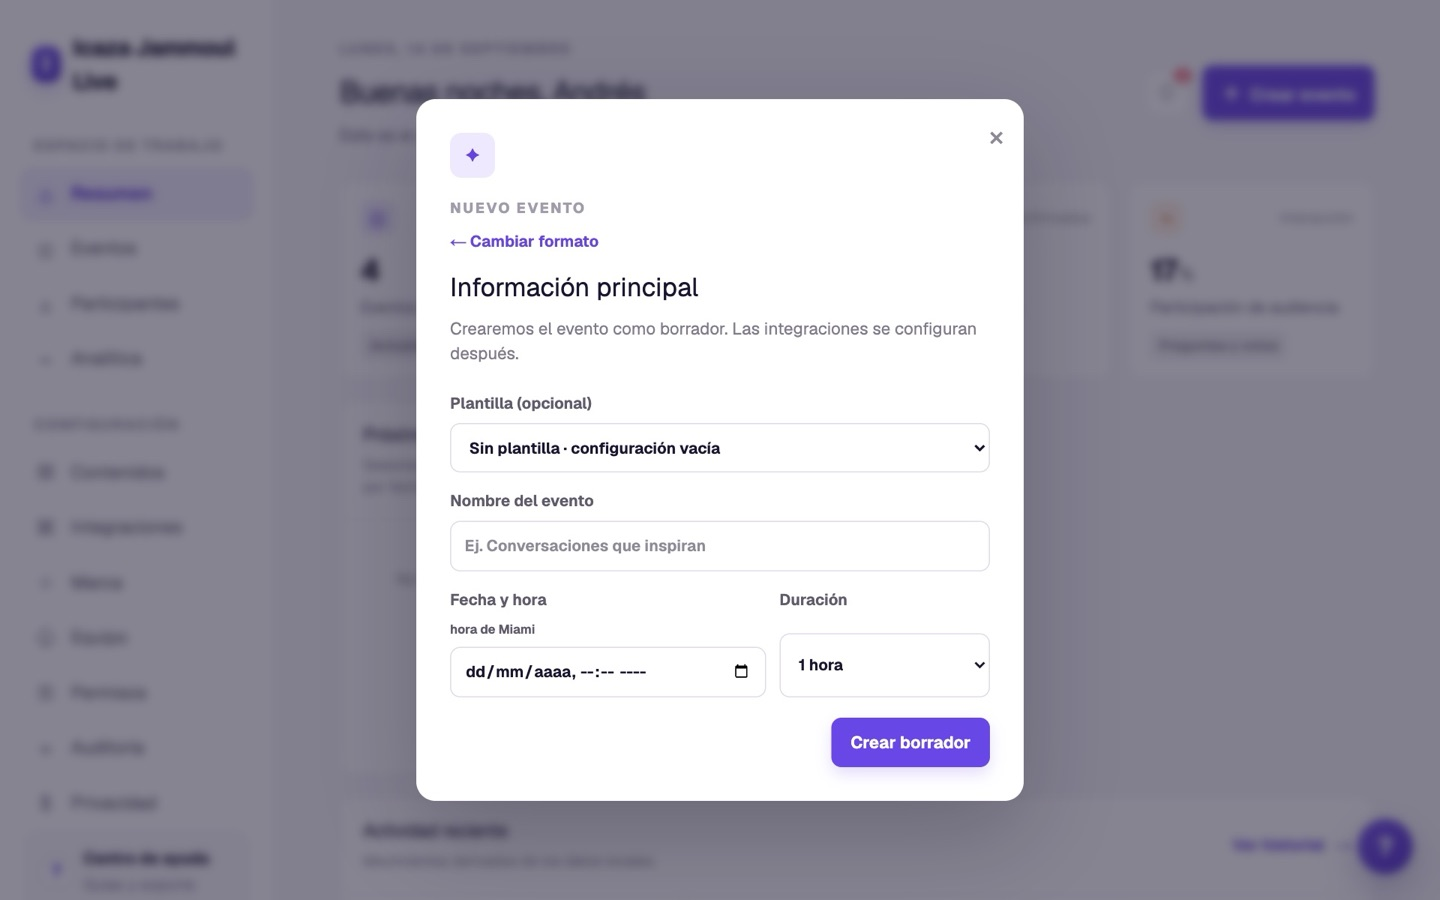
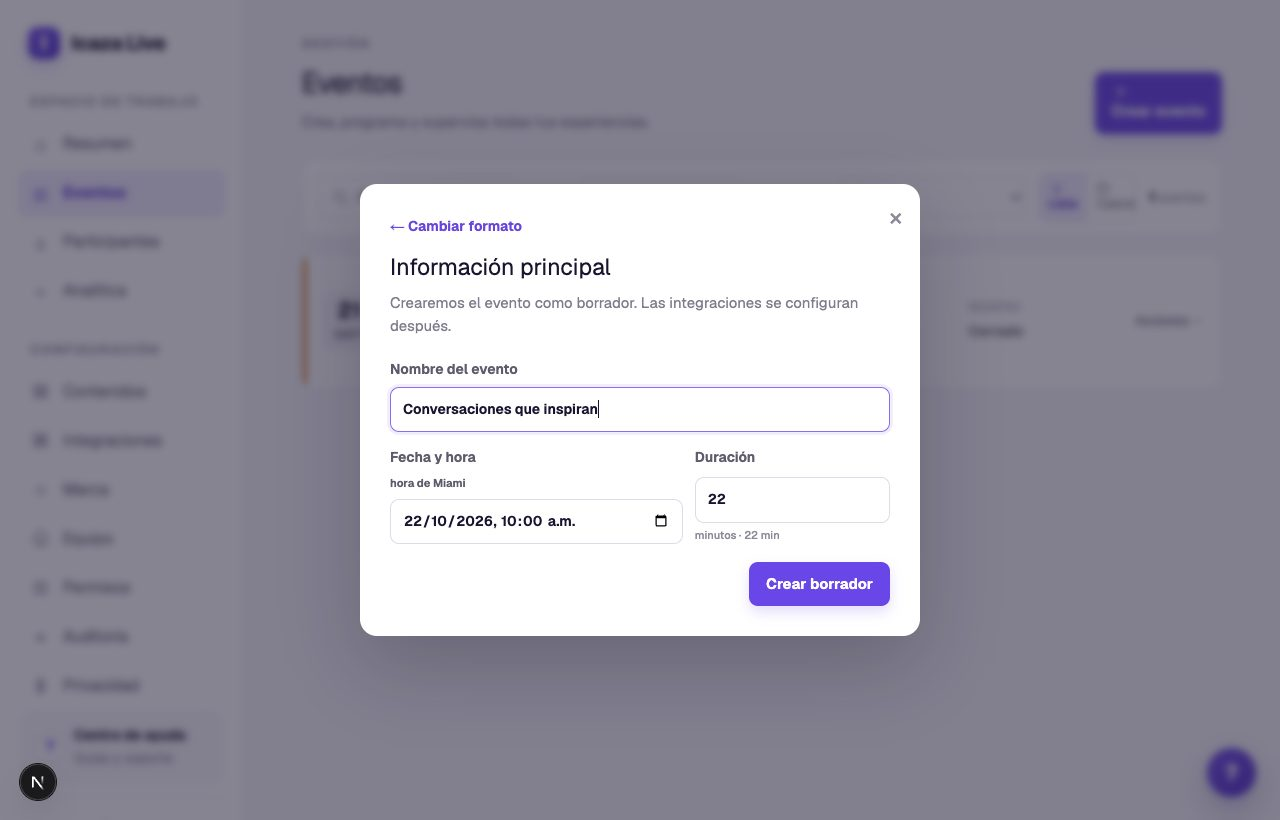
Centro de ayuda: guía de cuenta, idioma y equipo; duración libre, Recordatorio oportunidad, filtros de analítica y alcance por rol, con capturas nuevas

diff --git a/lib/help-guides.ts b/lib/help-guides.ts
@@ -53,9 +53,9 @@ const manageEventsSections: HelpGuideSection[] = [
       ),
       step(
         t(
-          "Completa **Información principal**: elige una **Plantilla** si guardaste una de un evento anterior (copia agenda, comunicaciones y encuestas), escribe el **Nombre del evento**, la **Fecha y hora** (siempre en hora de Miami, America/New_York) y la **Duración**. Pulsa **Crear borrador**.",
-          "Fill in **Main information**: pick a **Template** if you saved one from a previous event (it copies agenda, communications and polls), type the **Event name**, the **Date and time** (always Miami time, America/New_York) and the **Duration**. Click **Create draft**.",
-          "Renseignez **Informations principales** : choisissez un **Modèle** si vous en avez enregistré un depuis un événement précédent (il copie l’agenda, les communications et les sondages), saisissez le **Nom de l’événement**, la **Date et l’heure** (toujours à l’heure de Miami, America/New_York) et la **Durée**. Cliquez sur **Créer le brouillon**.",
+          "Completa **Información principal**: elige una **Plantilla** si guardaste una de un evento anterior (copia agenda, comunicaciones y encuestas), escribe el **Nombre del evento**, la **Fecha y hora** (siempre en hora de Miami, America/New_York) y la **Duración** en minutos: cualquier valor entre 5 y 720 (por ejemplo 22), con sugerencias rápidas al desplegar el campo. Pulsa **Crear borrador**. La duración también se cambia después desde **Cambiar fecha y hora** en la ficha del evento.",
+          "Fill in **Main information**: pick a **Template** if you saved one from a previous event (it copies agenda, communications and polls), type the **Event name**, the **Date and time** (always Miami time, America/New_York) and the **Duration** in minutes: any value between 5 and 720 (for example 22), with quick suggestions when you open the field. Click **Create draft**. The duration can also be changed later from **Change date and time** on the event page.",
+          "Renseignez **Informations principales** : choisissez un **Modèle** si vous en avez enregistré un depuis un événement précédent (il copie l’agenda, les communications et les sondages), saisissez le **Nom de l’événement**, la **Date et l’heure** (toujours à l’heure de Miami, America/New_York) et la **Durée** en minutes : toute valeur entre 5 et 720 (par exemple 22), avec des suggestions rapides en ouvrant le champ. Cliquez sur **Créer le brouillon**. La durée se modifie aussi ensuite via **Changer la date et l’heure** sur la fiche de l’événement.",
         ),
         {
           image: img("crear-informacion"),
@@ -344,6 +344,7 @@ const manageEventsSections: HelpGuideSection[] = [
           "**Opportunity reminder** is a sixth automation with the same structure as the follow-up: it goes out some time after the event ends, but **only to people who registered and did not enter**. If the person did attend, the send cancels itself. Enable it with its switch; existing registrants are scheduled at that moment. The **Schedule a meeting** button appears only if you saved your Calendly link.",
           "**Rappel opportunité** est une sixième automatisation, de même structure que le suivi : elle part un certain temps après la fin de l’événement, mais **uniquement aux inscrits qui ne sont pas entrés**. Si la personne a assisté, l’envoi s’annule tout seul. Activez-la avec son interrupteur ; les inscrits existants sont programmés à ce moment. Le bouton **Planifier une réunion** n’apparaît que si vous avez enregistré votre lien Calendly.",
         ),
+        { image: img("comunicaciones-oportunidad"), caption: t("Recordatorio oportunidad en la secuencia del participante.", "Opportunity reminder in the participant sequence.", "Rappel opportunité dans la séquence du participant.") },
       ),
       step(
         t(
@@ -774,11 +775,19 @@ const analyticsSections: HelpGuideSection[] = [
     id: "global",
     title: t("Analítica global", "Global analytics", "Analyses globales"),
     intro: t(
-      "La página Analítica del menú lateral consolida todos los eventos. Los datos se actualizan cada vez que la abres.",
-      "The Analytics page in the side menu consolidates all events. Data refreshes every time you open it.",
-      "La page Analyses du menu latéral consolide tous les événements. Les données se rafraîchissent à chaque ouverture.",
+      "La página Analítica del menú lateral consolida los eventos que puedes ver: si eres organizador, solo los tuyos; si eres administrador, todos, con filtros. Los datos se actualizan cada vez que la abres.",
+      "The Analytics page in the side menu consolidates the events you can see: your own if you are an organizer; all of them, with filters, if you are an administrator. Data refreshes every time you open it.",
+      "La page Analyses du menu latéral consolide les événements que vous pouvez voir : les vôtres si vous êtes organisateur ; tous, avec des filtres, si vous êtes administrateur. Les données se rafraîchissent à chaque ouverture.",
     ),
     steps: [
+      step(
+        t(
+          "Si eres **administrador**, arriba verás la barra de filtros: **Organizador** (los eventos donde esa persona es propietaria o coorganizadora), **Evento** y el rango **Desde / Hasta** por fecha de inicio. Los filtros se combinan, se aplican a todos los indicadores, gráficos y a la tabla de rendimiento, y quedan en la dirección de la página para que puedas compartir la vista. **Limpiar filtros** vuelve al total.",
+          "If you are an **administrator**, you will see the filter bar at the top: **Organizer** (events where that person is owner or co-organizer), **Event** and the **From / To** range by start date. Filters combine, apply to every indicator, chart and the performance table, and are kept in the page address so you can share the view. **Clear filters** goes back to the total.",
+          "Si vous êtes **administrateur**, la barre de filtres apparaît en haut : **Organisateur** (événements dont cette personne est propriétaire ou co-organisatrice), **Événement** et la plage **Du / Au** par date de début. Les filtres se combinent, s’appliquent à tous les indicateurs, graphiques et au tableau de performance, et restent dans l’adresse de la page pour partager la vue. **Effacer les filtres** revient au total.",
+        ),
+        { image: img("analitica-filtros"), caption: t("Filtros del administrador en Analítica.", "Administrator filters in Analytics.", "Filtres de l’administrateur dans Analyses.") },
+      ),
       step(
         t(
           "Los cuatro indicadores superiores: **Registros** (inscripciones totales y en cuántos eventos), **Visitas a sala** (accesos individuales con enlace personal), **Participación** (porcentaje de asistentes que hicieron algo: pregunta, voto, mensaje o reacción) y **Mensajes preparados** (correos en cola o programados).",
@@ -882,6 +891,120 @@ const analyticsSections: HelpGuideSection[] = [
   },
 ];
 
+// ---------------------------------------------------------------------------
+// Guía 4: Tu cuenta, el idioma y el equipo
+// ---------------------------------------------------------------------------
+
+const accountSections: HelpGuideSection[] = [
+  {
+    id: "perfil",
+    title: t("Tu perfil", "Your profile", "Votre profil"),
+    intro: t(
+      "Pulsa tu nombre, abajo a la izquierda del menú lateral, para abrir **Mi perfil**. Desde ahí gestionas tus datos, tu foto y tus preferencias sin pasar por un administrador.",
+      "Click your name at the bottom left of the side menu to open **My profile**. From there you manage your details, your photo and your preferences without going through an administrator.",
+      "Cliquez sur votre nom, en bas à gauche du menu latéral, pour ouvrir **Mon profil**. Vous y gérez vos données, votre photo et vos préférences sans passer par un administrateur.",
+    ),
+    steps: [
+      step(
+        t(
+          "**Identidad**: cambia tu **Nombre completo** y pulsa **Guardar nombre**. El correo y el rol se muestran en gris porque solo un administrador los cambia desde **Equipo** (el correo es tu acceso).",
+          "**Identity**: change your **Full name** and click **Save name**. Email and role are greyed out because only an administrator changes them from **Team** (the email is your sign-in).",
+          "**Identité** : modifiez votre **Nom complet** et cliquez sur **Enregistrer le nom**. L’e-mail et le rôle sont grisés car seul un administrateur les modifie depuis **Équipe** (l’e-mail est votre identifiant).",
+        ),
+        { image: img("perfil"), caption: t("Pantalla Mi perfil.", "My profile screen.", "Écran Mon profil.") },
+      ),
+      step(
+        t(
+          "**Foto**: **Subir foto** acepta PNG, JPG, WEBP o GIF de hasta 3 MB; se guarda en Amazon S3 y aparece en el menú lateral. **Quitar foto** vuelve a las iniciales. Si entras con Google, tu foto de Google se sincroniza sola en cada ingreso, salvo que hayas subido una propia.",
+          "**Photo**: **Upload photo** accepts PNG, JPG, WEBP or GIF up to 3 MB; it is stored in Amazon S3 and shown in the side menu. **Remove photo** goes back to your initials. If you sign in with Google, your Google photo syncs on every sign-in unless you uploaded your own.",
+          "**Photo** : **Téléverser une photo** accepte PNG, JPG, WEBP ou GIF jusqu’à 3 Mo ; elle est stockée dans Amazon S3 et affichée dans le menu latéral. **Retirer la photo** revient aux initiales. Si vous vous connectez avec Google, votre photo Google se synchronise à chaque connexion, sauf si vous en avez téléversé une.",
+        ),
+      ),
+      step(
+        t(
+          "**Zona horaria y agenda**: elige la zona horaria en la que quieres ver las fechas administrativas (por defecto, la del navegador) y guarda tu **Enlace de agendamiento (Calendly)**: es el botón **Agendar una reunión** de los correos de seguimiento y de Recordatorio oportunidad de tus eventos. **Seguridad**: el candado abre el cambio de contraseña y la verificación en dos pasos.",
+          "**Time zone and scheduling**: choose the time zone for administrative dates (browser time zone by default) and save your **Scheduling link (Calendly)**: it is the **Schedule a meeting** button in the follow-up and Opportunity reminder emails of your events. **Security**: the lock opens the password change and two-step verification.",
+          "**Fuseau horaire et agenda** : choisissez le fuseau des dates administratives (celui du navigateur par défaut) et enregistrez votre **Lien de prise de rendez-vous (Calendly)** : c’est le bouton **Planifier une réunion** des e-mails de suivi et de Rappel opportunité de vos événements. **Sécurité** : le cadenas ouvre le changement de mot de passe et la vérification en deux étapes.",
+        ),
+      ),
+    ],
+  },
+  {
+    id: "idioma",
+    title: t("Usar la plataforma en inglés", "Using the platform in English", "Utiliser la plateforme en anglais"),
+    steps: [
+      step(
+        t(
+          "En **Mi perfil → Idioma de la plataforma** pulsa **English**. La página se recarga y toda la interfaz de gestión (menús, botones, formularios, mensajes, fechas) pasa al inglés. La preferencia se guarda en tu cuenta: la verás también en tus próximos ingresos y desde otro dispositivo. Para volver, pulsa **Español**.",
+          "In **My profile → Platform language** click **English**. The page reloads and the whole management interface (menus, buttons, forms, messages, dates) switches to English. The preference is stored in your account: you will see it on your next sign-ins and from another device. To go back, click **Español**.",
+          "Dans **Mon profil → Langue de la plateforme**, cliquez sur **English**. La page se recharge et toute l’interface de gestion (menus, boutons, formulaires, messages, dates) passe en anglais. La préférence est enregistrée dans votre compte : vous la retrouverez à vos prochaines connexions et depuis un autre appareil. Pour revenir, cliquez sur **Español**.",
+        ),
+        {
+          tip: t(
+            "El Centro de ayuda y el botón de ayuda siguen tu idioma. Los correos a participantes y sus páginas (registro, sala) se mantienen en el idioma en que escribiste las plantillas.",
+            "The Help center and the help button follow your language. Emails to participants and their pages (registration, room) stay in the language you wrote the templates in.",
+            "Le Centre d’aide et le bouton d’aide suivent votre langue. Les e-mails aux participants et leurs pages (inscription, salle) restent dans la langue de vos modèles.",
+          ),
+        },
+      ),
+    ],
+  },
+  {
+    id: "equipo",
+    title: t("Equipo: gestionar las cuentas del personal", "Team: managing staff accounts", "Équipe : gérer les comptes du personnel"),
+    intro: t(
+      "**Equipo** (menú lateral) solo lo ven los administradores. Cada alta o cambio se avisa por correo a la persona y queda en Auditoría.",
+      "**Team** (side menu) is only visible to administrators. Every new account or change is emailed to the person and recorded in the Audit log.",
+      "**Équipe** (menu latéral) n’est visible que des administrateurs. Chaque création ou changement est notifié par e-mail à la personne et consigné dans l’Audit.",
+    ),
+    steps: [
+      step(
+        t(
+          "**＋ Añadir miembro**: nombre, correo, rol (**Organizador** u **Administrador**) y una contraseña temporal generada. La persona recibe un correo con su acceso; tú puedes copiar las credenciales por si necesita ayuda.",
+          "**＋ Add member**: name, email, role (**Organizer** or **Administrator**) and a generated temporary password. The person receives an email with their access; you can copy the credentials in case they need help.",
+          "**＋ Ajouter un membre** : nom, e-mail, rôle (**Organisateur** ou **Administrateur**) et un mot de passe temporaire généré. La personne reçoit un e-mail avec son accès ; vous pouvez copier les identifiants au cas où.",
+        ),
+      ),
+      step(
+        t(
+          "**Editar** abre los datos del miembro: corrige el **Nombre completo** o cambia el **Correo electrónico**. Con un correo nuevo, la persona entrará con él, recibirá un aviso y sus sesiones abiertas se cierran. Abajo, **Reenviar credenciales por correo** genera una contraseña temporal nueva y la envía junto con el enlace de ingreso: úsalo cuando alguien perdió el acceso o nunca recibió el primer correo.",
+          "**Edit** opens the member's details: fix the **Full name** or change the **Email address**. With a new email, the person signs in with it, receives a notice and their open sessions are closed. Below, **Resend credentials by email** generates a new temporary password and sends it with the sign-in link: use it when someone lost access or never received the first email.",
+          "**Modifier** ouvre les données du membre : corrigez le **Nom complet** ou changez l’**Adresse e-mail**. Avec un nouvel e-mail, la personne se connecte avec celui-ci, reçoit un avis et ses sessions ouvertes sont fermées. En bas, **Renvoyer les identifiants par e-mail** génère un nouveau mot de passe temporaire et l’envoie avec le lien de connexion : utile quand quelqu’un a perdu l’accès ou n’a jamais reçu le premier e-mail.",
+        ),
+        { image: img("equipo-editar"), caption: t("Modal Editar miembro con el reenvío de credenciales.", "Edit member modal with credential resend.", "Fenêtre Modifier le membre avec le renvoi des identifiants.") },
+      ),
+      step(
+        t(
+          "El selector **Rol** cambia el rol al instante (pasar a **Participante** saca a la persona del equipo pero conserva su historial). **Restablecer** fija una contraseña temporal concreta, **Desactivar** bloquea el ingreso sin borrar nada y **Eliminar** borra la cuenta de forma definitiva. Siempre debe quedar al menos un administrador activo y no puedes desactivar ni eliminar tu propia cuenta.",
+          "The **Role** selector changes the role instantly (switching to **Participant** removes the person from the team but keeps their history). **Reset** sets a specific temporary password, **Deactivate** blocks sign-in without deleting anything and **Delete** removes the account permanently. At least one active administrator must remain and you cannot deactivate or delete your own account.",
+          "Le sélecteur **Rôle** change le rôle immédiatement (passer à **Participant** retire la personne de l’équipe mais conserve son historique). **Réinitialiser** fixe un mot de passe temporaire précis, **Désactiver** bloque la connexion sans rien supprimer et **Supprimer** efface le compte définitivement. Il doit toujours rester au moins un administrateur actif et vous ne pouvez ni désactiver ni supprimer votre propre compte.",
+        ),
+      ),
+    ],
+  },
+  {
+    id: "alcance",
+    title: t("Qué ve cada rol", "What each role sees", "Ce que voit chaque rôle"),
+    steps: [
+      step(
+        t(
+          "**Organizador**: en **Eventos**, **Participantes** y **Analítica** solo aparecen los eventos que creó o en los que figura como coorganizador, y sus inscritos. En **Contenidos** puede subir videos y usar toda la biblioteca en sus eventos, pero solo puede **renombrar o retirar** los que subió; los demás se muestran como **Solo lectura**.",
+          "**Organizer**: **Events**, **Participants** and **Analytics** only show the events they created or co-organize, and their registrants. In **Content** they can upload videos and use the whole library in their events, but can only **rename or remove** the ones they uploaded; the rest appear as **Read-only**.",
+          "**Organisateur** : **Événements**, **Participants** et **Analyses** n’affichent que les événements qu’il a créés ou co-organise, et leurs inscrits. Dans **Contenus**, il peut téléverser des vidéos et utiliser toute la bibliothèque dans ses événements, mais ne peut **renommer ou retirer** que celles qu’il a téléversées ; les autres apparaissent en **Lecture seule**.",
+        ),
+        { image: img("contenidos-biblioteca"), caption: t("Biblioteca de contenidos.", "Content library.", "Bibliothèque de contenus.") },
+      ),
+      step(
+        t(
+          "**Administrador**: ve todos los eventos, participantes y contenidos, filtra **Eventos** y **Analítica** por organizador y es quien gestiona **Equipo**, **Permisos**, **Integraciones**, **Marca**, **Auditoría** y **Privacidad**. Los módulos sin permiso no aparecen en el menú lateral; los permisos por rol y por persona se ajustan en **Permisos**.",
+          "**Administrator**: sees every event, participant and content item, filters **Events** and **Analytics** by organizer and manages **Team**, **Permissions**, **Integrations**, **Brand**, **Audit log** and **Privacy**. Modules without permission do not appear in the side menu; role and per-person permissions are adjusted in **Permissions**.",
+          "**Administrateur** : voit tous les événements, participants et contenus, filtre **Événements** et **Analyses** par organisateur et gère **Équipe**, **Permissions**, **Intégrations**, **Marque**, **Audit** et **Confidentialité**. Les modules sans permission n’apparaissent pas dans le menu latéral ; les permissions par rôle et par personne se règlent dans **Permissions**.",
+        ),
+      ),
+    ],
+  },
+];
+
 export const helpGuides: HelpArticle[] = [
   {
     slug: "guide-manage-events",
@@ -966,5 +1089,32 @@ export const helpGuides: HelpArticle[] = [
     },
     sections: analyticsSections,
     related: ["guide-manage-events", "guide-participants", "read-event-analytics"],
+  },
+  {
+    slug: "guide-account-team",
+    category: "account",
+    featured: true,
+    title: t(
+      "Tu cuenta, el idioma y el equipo",
+      "Your account, language and team",
+      "Votre compte, la langue et l’équipe",
+    ),
+    summary: t(
+      "Perfil con foto e idioma (español o inglés), zona horaria y Calendly; cómo el administrador añade, edita y reenvía credenciales a los miembros, y qué ve cada rol.",
+      "Profile with photo and language (Spanish or English), time zone and Calendly; how the administrator adds, edits and resends credentials to members, and what each role sees.",
+      "Profil avec photo et langue (espagnol ou anglais), fuseau horaire et Calendly ; comment l’administrateur ajoute, modifie et renvoie les identifiants aux membres, et ce que voit chaque rôle.",
+    ),
+    content: t(
+      "Todo lo personal se gestiona desde Mi perfil; las cuentas del personal, desde Equipo. Esta guía muestra ambas pantallas tal como se ven en la plataforma.",
+      "Everything personal is managed from My profile; staff accounts, from Team. This guide shows both screens exactly as they appear in the platform.",
+      "Tout ce qui est personnel se gère depuis Mon profil ; les comptes du personnel, depuis Équipe. Ce guide montre les deux écrans tels qu’ils apparaissent dans la plateforme.",
+    ),
+    keywords: {
+      es: ["perfil", "foto", "idioma", "inglés", "english", "zona horaria", "calendly", "equipo", "miembro", "editar", "correo", "reenviar credenciales", "contraseña temporal", "rol", "organizador", "administrador", "permisos", "solo lectura", "contenidos"],
+      en: ["profile", "photo", "language", "english", "spanish", "time zone", "calendly", "team", "member", "edit", "email", "resend credentials", "temporary password", "role", "organizer", "administrator", "permissions", "read-only", "content"],
+      fr: ["profil", "photo", "langue", "anglais", "espagnol", "fuseau horaire", "calendly", "équipe", "membre", "modifier", "e-mail", "renvoyer les identifiants", "mot de passe temporaire", "rôle", "organisateur", "administrateur", "permissions", "lecture seule", "contenus"],
+    },
+    sections: accountSections,
+    related: ["guide-manage-events", "guide-analytics", "protect-account"],
   },
 ];

diff --git a/app/components/help-widget.tsx b/app/components/help-widget.tsx
@@ -43,6 +43,7 @@ const guideLinks: { slug: string; icon: string; label: Record<HelpLocale, string
   { slug: "guide-manage-events", icon: "◫", label: { es: "Guía: gestionar eventos", en: "Guide: managing events", fr: "Guide : gérer les événements" } },
   { slug: "guide-participants", icon: "♙", label: { es: "Guía: participantes", en: "Guide: participants", fr: "Guide : participants" } },
   { slug: "guide-analytics", icon: "⌁", label: { es: "Guía: analítica", en: "Guide: analytics", fr: "Guide : analyses" } },
+  { slug: "guide-account-team", icon: "♧", label: { es: "Guía: tu cuenta y el equipo", en: "Guide: your account and team", fr: "Guide : votre compte et l’équipe" } },
 ];
 
 export default function HelpWidget({
